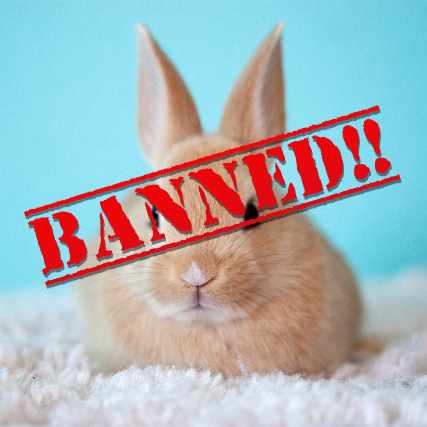
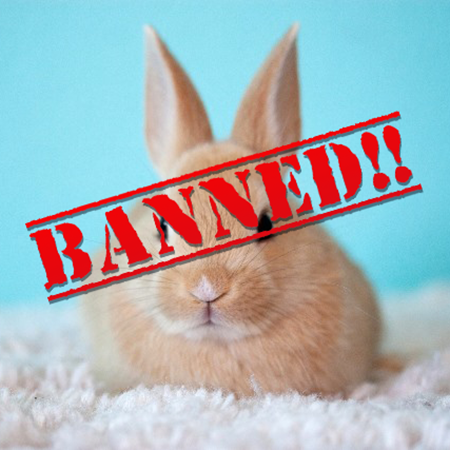
Added some dank images. Modified image size (can do it later with style).

diff --git a/src/Data/pledgesStore.js b/src/Data/pledgesStore.js
@@ -21,12 +21,12 @@ export default {
         {
             name: "Bikeman Rising", 
             text: "I am so glad for my cykel",
-            img: ""
+            img: "./Images/BikePledge.png"
         },
         {
             name: "No nonsens nelly", 
             text: "This is a placeholder pledge, deal with it",
-            img: ""
+            img: "./Images/PledgeImage.jpg"
         }
     ]
 }
